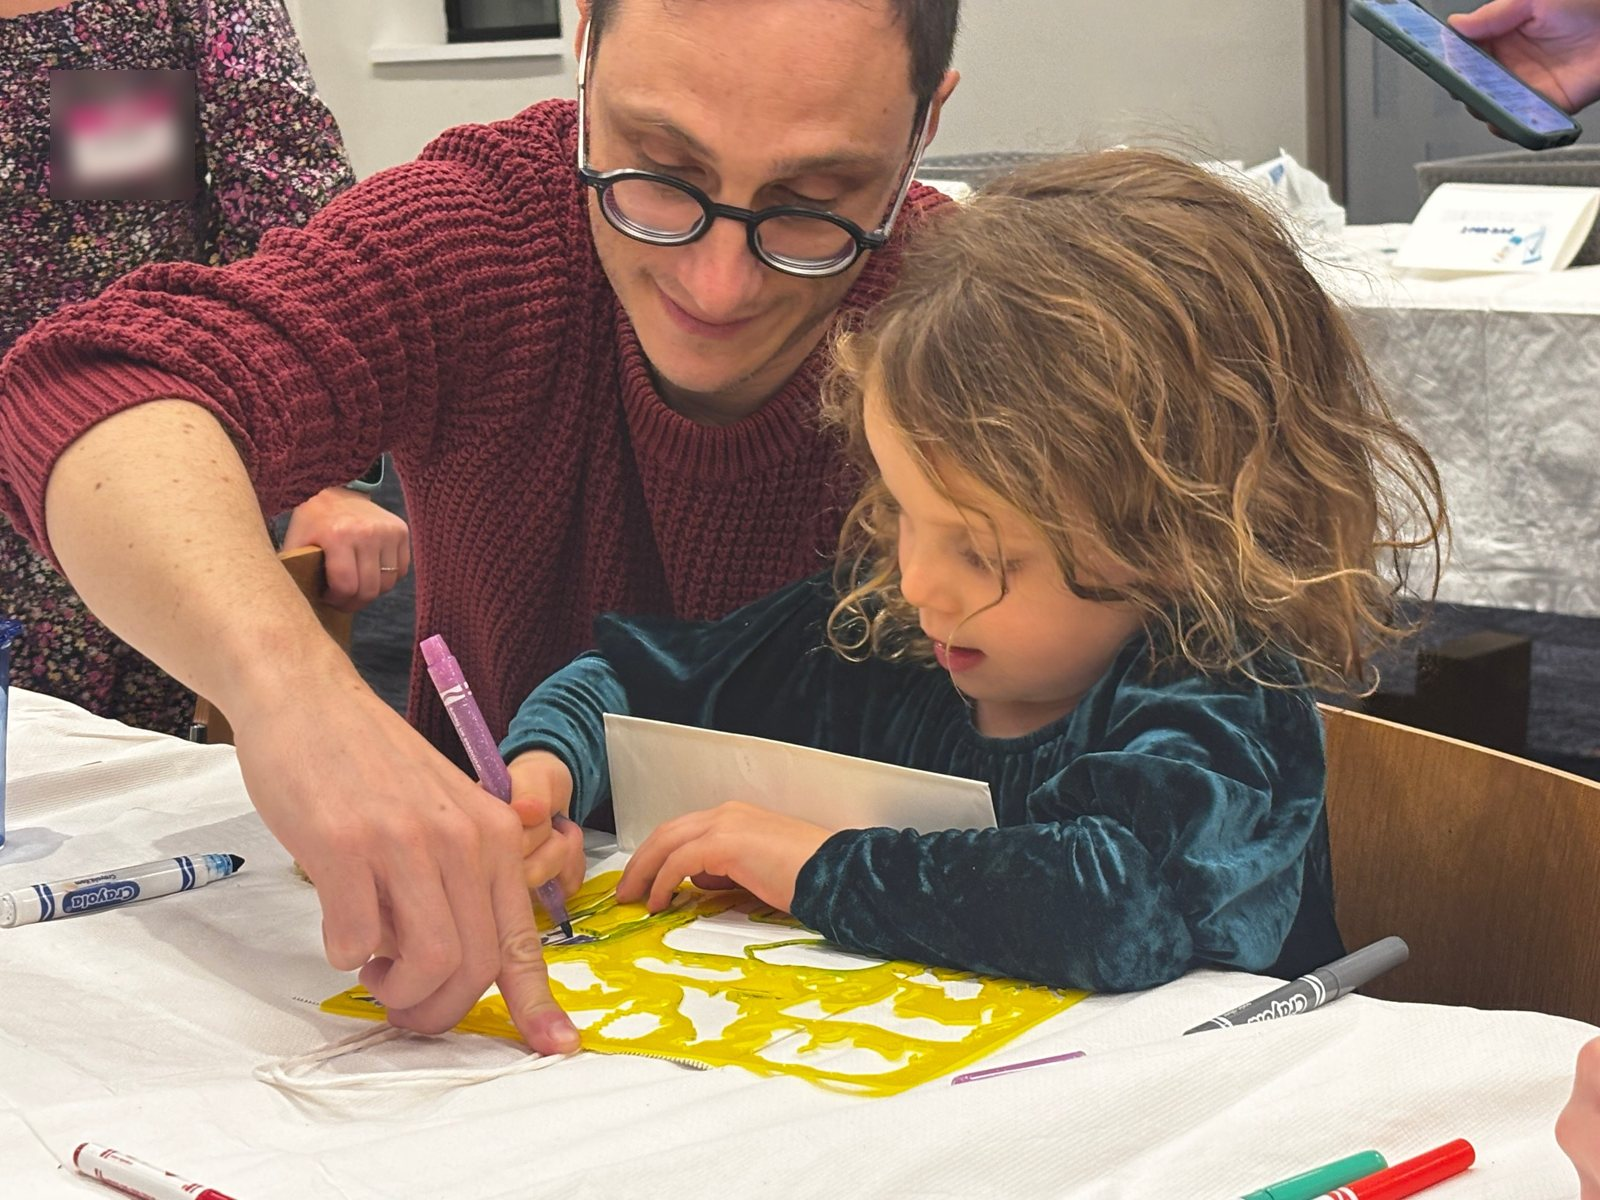
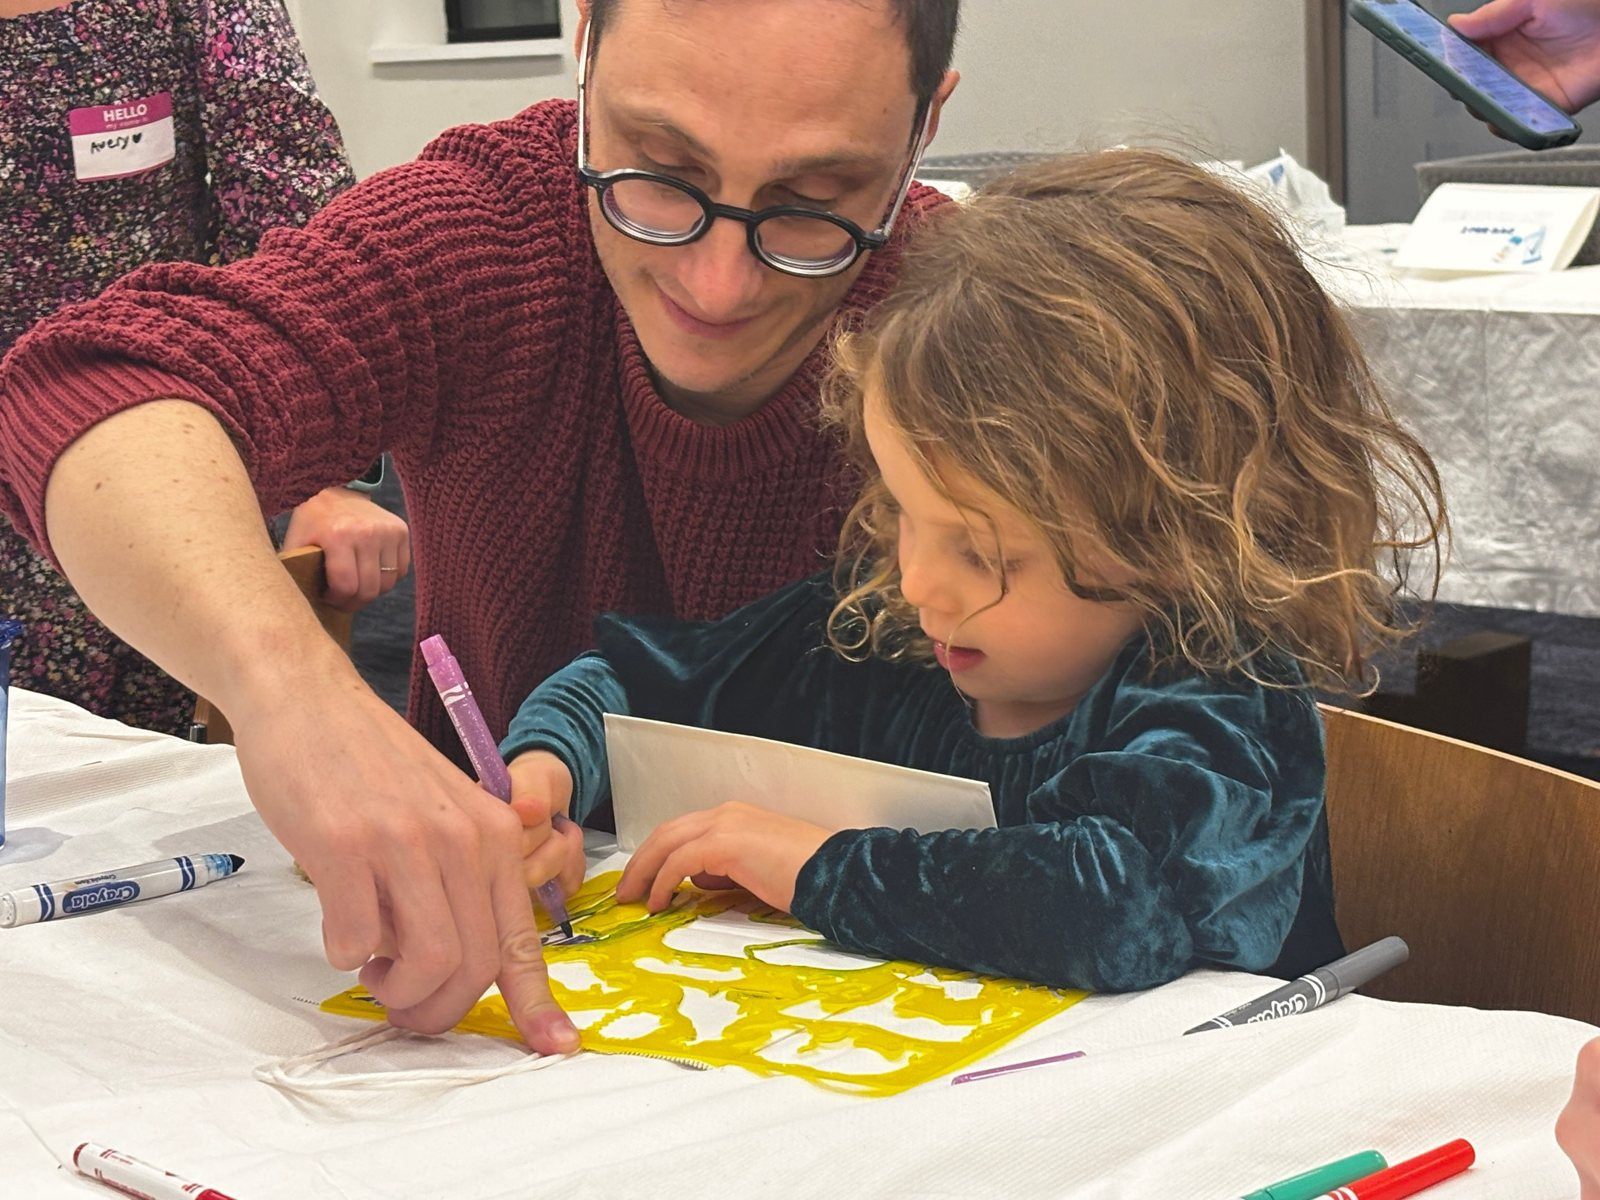
Show photos uncropped and close gaps in the home photo grid
- Slideshows now fit the whole photo in frame (object-fit: contain)
  with a blurred copy of the same photo filling the spare space, so
  faces and the tops of portrait shots are no longer cut off.
- Home photo grid is rebuilt as justified rows: each photo's width
  follows its aspect ratio, so every photo in a row is the same height,
  nothing is cropped, and there is no leftover white space.
- Remove the name-tag and name blurring from four November photos.

Claude-Session: https://claude.ai/code/session_01Bk8iYv8z1RNQea841Z21yu

Changed region(s): [[0.0312, 0.0617, 0.125, 0.185]]

diff --git a/src/pages/Home.jsx b/src/pages/Home.jsx
@@ -5,16 +5,30 @@ import AnimatedStat from '../components/AnimatedStat.jsx'
 
 const HEADLINE_WORDS = ['Teens', 'Helping', 'Those', 'In', 'Need']
 
-const gridPhotos = [
-  { src: '/images/2winterwalkdec2025.jpg',   alt: 'West Side Smiles volunteers at the NYC Winter Walk in Central Park, December 2025' },
-  { src: '/images/2winterwalk1dec2025.jpg',   alt: 'Volunteers gathered at the Winter Walk event, December 2025' },
-  { src: '/images/3hygienekitnov2026.jpg',    alt: 'Four young volunteers wearing West Side Smiles stickers at the hygiene kit packing event at Congregation Rodeph Sholom, November 2026' },
-  { src: '/images/3hygienekit2nov2026.jpg',   alt: 'Volunteers filling decorated bags with toothpaste and deodorant at Congregation Rodeph Sholom, November 2026' },
-  { src: '/images/2hygienekitmay2026.jpg',    alt: 'Volunteers assembling hygiene kits at Congregation Rodeph Sholom, May 2026' },
-  { src: '/images/hygienekitjune2023.jpg',    alt: 'West Side Smiles hygiene kit packaging event, June 2023' },
-  { src: '/images/2bakesaleapril2023.jpg',    alt: 'West Side Smiles bake sale fundraiser table, April 2023' },
-  { src: '/images/jordanandmilesphoot.jpg',   alt: 'Jordan Usdin and Miles Shankman, co-founders of West Side Smiles' },
+// Photos are grouped in pairs (one landscape + one portrait) and laid out as
+// justified rows: each photo's width is proportional to its aspect ratio, so
+// every photo in a row is the same height, nothing is cropped, and the rows
+// sit flush with no leftover gaps. On phones each pair becomes its own row.
+const gridPairs = [
+  [
+    { src: '/images/2winterwalkdec2025.jpg',  ratio: 4 / 3, alt: 'West Side Smiles volunteers at the NYC Winter Walk in Central Park, December 2025' },
+    { src: '/images/2winterwalk1dec2025.jpg', ratio: 3 / 4, alt: 'Volunteers gathered at the Winter Walk event, December 2025' },
+  ],
+  [
+    { src: '/images/3hygienekitnov2026.jpg',  ratio: 4 / 3, alt: 'Four young volunteers wearing West Side Smiles stickers at the hygiene kit packing event at Congregation Rodeph Sholom, November 2026' },
+    { src: '/images/3hygienekit2nov2026.jpg', ratio: 3 / 4, alt: 'Volunteers filling decorated bags with toothpaste and deodorant at Congregation Rodeph Sholom, November 2026' },
+  ],
+  [
+    { src: '/images/hygienekitjune2023.jpg',  ratio: 3 / 4, alt: 'West Side Smiles hygiene kit packaging event, June 2023' },
+    { src: '/images/2hygienekitmay2026.jpg',  ratio: 4 / 3, alt: 'Volunteers assembling hygiene kits at Congregation Rodeph Sholom, May 2026' },
+  ],
+  [
+    { src: '/images/jordanandmilesphoot.jpg', ratio: 3 / 4, alt: 'Jordan Usdin and Miles Shankman, co-founders of West Side Smiles' },
+    { src: '/images/2bakesaleapril2023.jpg',  ratio: 4 / 3, alt: 'West Side Smiles bake sale fundraiser table, April 2023' },
+  ],
 ]
+const gridRows = [gridPairs.slice(0, 2), gridPairs.slice(2, 4)]
+const pairRatio = (pair) => pair.reduce((sum, p) => sum + p.ratio, 0)
 
 const partners = [
   { logo: '/images/cov.png',   name: 'Covenant House New York',           href: 'https://ny.covenanthouse.org' },
@@ -108,14 +122,22 @@ function Home() {
       <section className="section-tight">
         <div className="container">
           <div className="photo-grid" ref={gridRef}>
-            {gridPhotos.map(({ src, alt }, i) => (
-              <figure
-                key={src}
-                className={`photo-grid-item${gridOn ? ' revealed' : ''}`}
-                style={{ '--stagger': i }}
-              >
-                <img src={src} alt={alt} loading="lazy" />
-              </figure>
+            {gridRows.map((row, r) => (
+              <div className="photo-row" key={r}>
+                {row.map((pair, p) => (
+                  <div className="photo-pair" key={p} style={{ '--r': pairRatio(pair) }}>
+                    {pair.map(({ src, alt, ratio }, i) => (
+                      <figure
+                        key={src}
+                        className={`photo-grid-item${gridOn ? ' revealed' : ''}`}
+                        style={{ '--r': ratio, '--stagger': r * 4 + p * 2 + i }}
+                      >
+                        <img src={src} alt={alt} loading="lazy" />
+                      </figure>
+                    ))}
+                  </div>
+                ))}
+              </div>
             ))}
           </div>
         </div>

diff --git a/src/index.css b/src/index.css
@@ -612,23 +612,37 @@ a { color: var(--navy); }
 }
 
 .photo-grid {
-  display: grid;
-  grid-template-columns: repeat(4, 1fr);
-  gap: 1rem;
+  display: flex;
+  flex-direction: column;
+  gap: 0.75rem;
 }
+
+.photo-row,
+.photo-pair {
+  display: flex;
+  gap: 0.75rem;
+}
+
+/* Width grows in proportion to aspect ratio, so heights match across a row */
+.photo-pair { flex: var(--r) 1 0; min-width: 0; }
 
 .photo-grid-item {
   margin: 0;
+  flex: var(--r) 1 0;
+  min-width: 0;
+  aspect-ratio: var(--r);
   overflow: hidden;
   border-radius: 4px;
   cursor: pointer;
   position: relative;
+  background: var(--beige-deep);
 }
 
 .photo-grid-item img {
   width: 100%;
-  height: auto;
+  height: 100%;
   display: block;
+  object-fit: cover; /* box already matches the photo's shape, so nothing is cut off */
   transition: transform 0.4s ease;
 }
 
@@ -656,8 +670,10 @@ a { color: var(--navy); }
   animation-delay: calc(var(--stagger) * 70ms);
 }
 
-@media (max-width: 900px) { .photo-grid { grid-template-columns: repeat(3, 1fr); } }
-@media (max-width: 600px) { .photo-grid { grid-template-columns: repeat(2, 1fr); } }
+@media (max-width: 600px) {
+  .photo-row { flex-direction: column; }
+  .photo-row .photo-pair { flex: none; }
+}
 
 @media (prefers-reduced-motion: reduce) {
   .photo-grid-item.revealed { animation: none; opacity: 1; }
@@ -918,11 +934,24 @@ a { color: var(--navy); }
   height: 100%;
 }
 
+/* Whole photo always shows (no cropped heads). A blurred copy of the same
+   photo fills the leftover space so there are no plain bars. */
+.slideshow-backdrop {
+  position: absolute;
+  inset: 0;
+  width: 100%;
+  height: 100%;
+  object-fit: cover;
+  filter: blur(22px) brightness(0.8) saturate(1.1);
+  transform: scale(1.15);
+}
+
 .slideshow-img {
+  position: relative;
   width: 100%;
   height: 100%;
   display: block;
-  object-fit: cover;
+  object-fit: contain;
   object-position: center;
 }
 

diff --git a/src/components/Slideshow.jsx b/src/components/Slideshow.jsx
@@ -100,6 +100,7 @@ function Slideshow({ images = [], interval = 4000, label = 'Photo slideshow' }) 
             transition={slideTransition}
             className="slideshow-frame"
           >
+            <img src={images[index]} alt="" aria-hidden="true" className="slideshow-backdrop" />
             <img
               src={images[index]}
               alt={`${label}, photo ${index + 1} of ${images.length}`}
